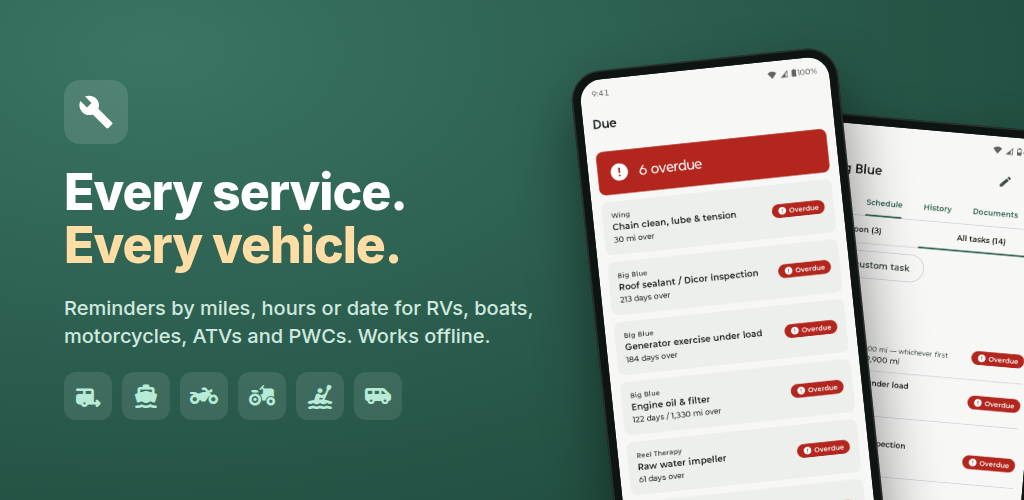
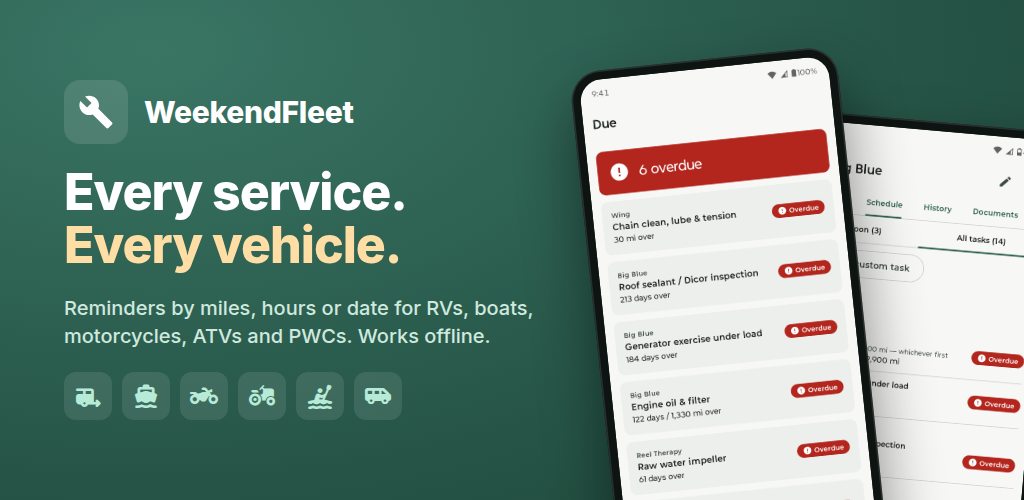
Name the app WeekendFleet; support email; version 1.0.0 (code 6)

Changed region(s): [[0.125, 0.18, 0.3438, 0.27]]

diff --git a/docs/graphics/feature.html b/docs/graphics/feature.html
@@ -1,5 +1,5 @@
 <!doctype html>
-<!-- Play feature graphic, 1024x500. No app name yet (still undecided); add it in .name when chosen.
+<!-- Play feature graphic, 1024x500.
      Re-render: google-chrome --headless --hide-scrollbars --window-size=1024,500 --screenshot=feature-graphic.png feature.html -->
 <html><head><meta charset="utf-8">
 <link href="https://fonts.googleapis.com/css2?family=Inter:wght@500;600;800&display=block" rel="stylesheet">
@@ -10,7 +10,8 @@ body{font-family:Inter,sans-serif;color:#fff;position:relative;
   background:radial-gradient(120% 140% at 15% 10%,#3A7564 0%,#2B5D4E 45%,#1B4336 100%)}
 .copy{position:absolute;left:64px;top:0;bottom:0;width:470px;display:flex;flex-direction:column;justify-content:center;gap:22px}
 .mark{width:64px;height:64px;border-radius:16px;background:rgba(255,255,255,.12);display:grid;place-items:center}
-.name{font-weight:600;font-size:22px;letter-spacing:.02em;opacity:.85}
+.brand{display:flex;align-items:center;gap:16px}
+.name{font-weight:800;font-size:30px;letter-spacing:-.01em}
 h1{margin:0;font-weight:800;font-size:50px;line-height:1.06;letter-spacing:-.02em}
 h1 span{color:#FFDEA6}
 p{margin:0;font-weight:500;font-size:20px;line-height:1.4;color:#CFE9DF}
@@ -24,7 +25,7 @@ p{margin:0;font-weight:500;font-size:20px;line-height:1.4;color:#CFE9DF}
 .p2{left:770px;top:120px;transform:rotate(5deg)}
 </style></head><body>
 <div class="copy">
-  <div class="mark"><svg width="36" height="36" viewBox="0 0 24 24"><path fill="#fff" d="M22.7,19l-9.1,-9.1c0.9,-2.3 0.4,-5 -1.5,-6.9 -2,-2 -5,-2.4 -7.4,-1.3L9,6 6,9 1.6,4.7C0.4,7.1 0.9,10.1 2.9,12.1c1.9,1.9 4.6,2.4 6.9,1.5l9.1,9.1c0.4,0.4 1,0.4 1.4,0l2.3,-2.3c0.5,-0.4 0.5,-1.1 0.1,-1.4z"/></svg></div>
+  <div class="brand"><div class="mark"><svg width="36" height="36" viewBox="0 0 24 24"><path fill="#fff" d="M22.7,19l-9.1,-9.1c0.9,-2.3 0.4,-5 -1.5,-6.9 -2,-2 -5,-2.4 -7.4,-1.3L9,6 6,9 1.6,4.7C0.4,7.1 0.9,10.1 2.9,12.1c1.9,1.9 4.6,2.4 6.9,1.5l9.1,9.1c0.4,0.4 1,0.4 1.4,0l2.3,-2.3c0.5,-0.4 0.5,-1.1 0.1,-1.4z"/></svg></div><div class="name">WeekendFleet</div></div>
   <h1>Every service.<br><span>Every vehicle.</span></h1>
   <p>Reminders by miles, hours or date for RVs, boats, motorcycles, ATVs and PWCs. Works offline.</p>
   <div class="types"><i>rv_hookup</i><i>directions_boat</i><i>two_wheeler</i><i>agriculture</i><i>kayaking</i><i>airport_shuttle</i></div>

diff --git a/app/src/main/java/dev/maintracker/ui/settings/DataSettings.kt b/app/src/main/java/dev/maintracker/ui/settings/DataSettings.kt
@@ -51,8 +51,8 @@ import kotlinx.coroutines.launch
 import java.time.LocalDate
 import java.util.Currency
 
-/** Shown in About when set. Left blank until there's a real support address to publish. */
-const val SUPPORT_EMAIL = ""
+/** Shown in About; also the developer contact on the Play listing. */
+const val SUPPORT_EMAIL = "jaydoege8969@gmail.com"
 const val PRIVACY_POLICY_URL = "https://jeremydoege89.github.io/maintenance-tracker-privacy/"
 
 /** Settings › Units (Build Guide §5.7). Display-only: stored values never change. */
@@ -189,7 +189,7 @@ fun DataSection() {
     }
     fun export(kind: ExportKind, name: String) = actions.requirePro(ProFeature.EXPORT) {
         pendingExport = kind
-        create.launch("maintenance-$name-${LocalDate.now()}.${kind.ext}")
+        create.launch("weekendfleet-$name-${LocalDate.now()}.${kind.ext}")
     }
 
     val open = rememberLauncherForActivityResult(ActivityResultContracts.OpenDocument()) { uri ->

diff --git a/docs/release-checklist.md b/docs/release-checklist.md
@@ -11,7 +11,7 @@
 
 ## Needs Play Console (owner)
 
-- [ ] Create the app (final name chosen and trademark-checked — §14)
+- [ ] Create the app as **WeekendFleet** (name chosen 2026-10-06; quick web search found no app by that name — not a legal trademark search)
 - [ ] Enrol in Play App Signing (let Google generate the app signing key)
 - [x] Upload key created 2026-10-06 (`~/keys/maintracker-upload.jks` on the build VM, alias `upload`, RSA 4096, password in `~/keys/README-maintracker-upload.txt`; upload cert SHA-256 `B9:FA:2D:43:…:A7:6D:AE`). **Back up the .jks + password off the VM.** `keystore.properties` points at it (git-ignored)
 - [ ] In-app product `mt_pro_lifetime`: one-time, non-consumable, $9.99, active. Do **not** create `mt_plus_*` yet
@@ -20,7 +20,7 @@
 - [ ] With a license tester on the Play-installed build: buy Pro (test card "always approves"), "slow test card" for pending, cancel; uninstall + reinstall → Pro restored
 - [ ] Store listing from `play-listing.md`; 7 screenshots are in `screenshots/play/` (2:1, Play-compliant; originals in `screenshots/`); feature graphic 1024×500 and hi-res icon 512×512 are in `graphics/` (HTML sources there; re-render the feature graphic once the app name is chosen)
 - [x] Privacy policy live at https://jeremydoege89.github.io/maintenance-tracker-privacy/ (public repo JeremyDoege89/maintenance-tracker-privacy, GitHub Pages; regenerate `index.html` from `privacy-policy.md` when it changes); `PRIVACY_POLICY_URL` set
-- [ ] Support email → set `SUPPORT_EMAIL` in `DataSettings.kt`
+- [x] Support email jaydoege8969@gmail.com set in `SUPPORT_EMAIL`
 - [ ] Data safety form from `data-safety.md`; content rating; target audience; ads = none
 - [ ] Closed testing track before production
 

diff --git a/docs/play-listing.md b/docs/play-listing.md
@@ -1,7 +1,7 @@
 # Play Store listing (draft)
 
-Working name **Maintenance Tracker** — the final name is still open (Build Guide §14: RigLog /
-ShedLog / TorqueLog / other; trademark-check the pick). Swap it in everywhere below once chosen.
+App name **WeekendFleet** (chosen 2026-10-06). Support / developer email: jaydoege8969@gmail.com.
+Privacy policy: https://jeremydoege89.github.io/maintenance-tracker-privacy/
 
 - **Category:** Auto & Vehicles (secondary: Tools)
 - **Price:** Free, with in-app product `mt_pro_lifetime` (Pro, one-time, $9.99)
@@ -10,7 +10,7 @@ ShedLog / TorqueLog / other; trademark-check the pick). Swap it in everywhere be
 
 ## Title (30 chars max)
 
-Keyword first, e.g. `RV & Boat Maintenance Log` (25) or `<Name>: RV & Boat Service Log`.
+`WeekendFleet: Maintenance Log` (29). Alternative: `WeekendFleet: RV & Boat Log` (27).
 
 ## Short description (80 chars max)
 

diff --git a/docs/privacy-policy.md b/docs/privacy-policy.md
@@ -1,6 +1,6 @@
 # Privacy policy
 
-_Effective: October 6, 2026. App: Maintenance Tracker for Android, by the developer named on its Google Play listing._
+_Effective: October 6, 2026. App: WeekendFleet for Android, by the developer named on its Google Play listing._
 
 **Short version: everything you enter stays on your phone. We don't collect, receive or sell any of it.
 The one exception is a VIN you choose to decode, which goes to the US government's free VIN decoder.**
